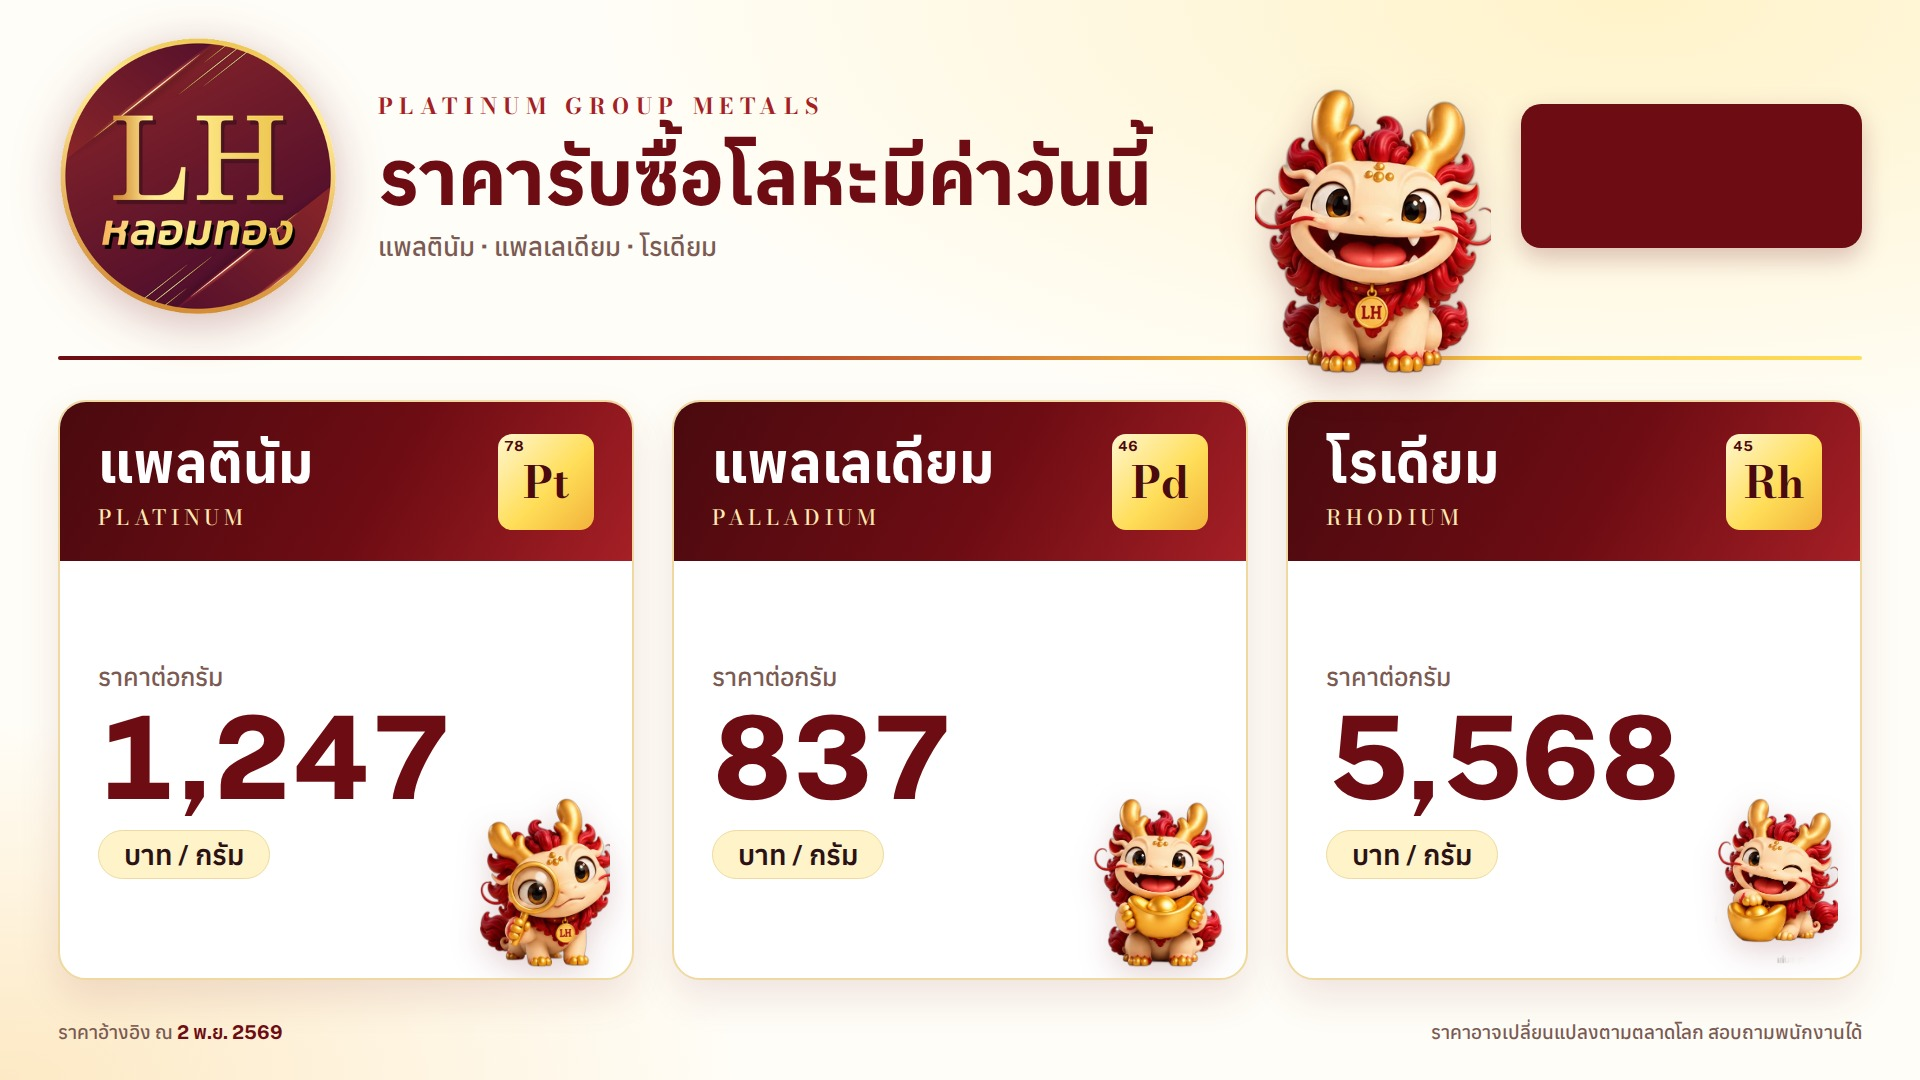
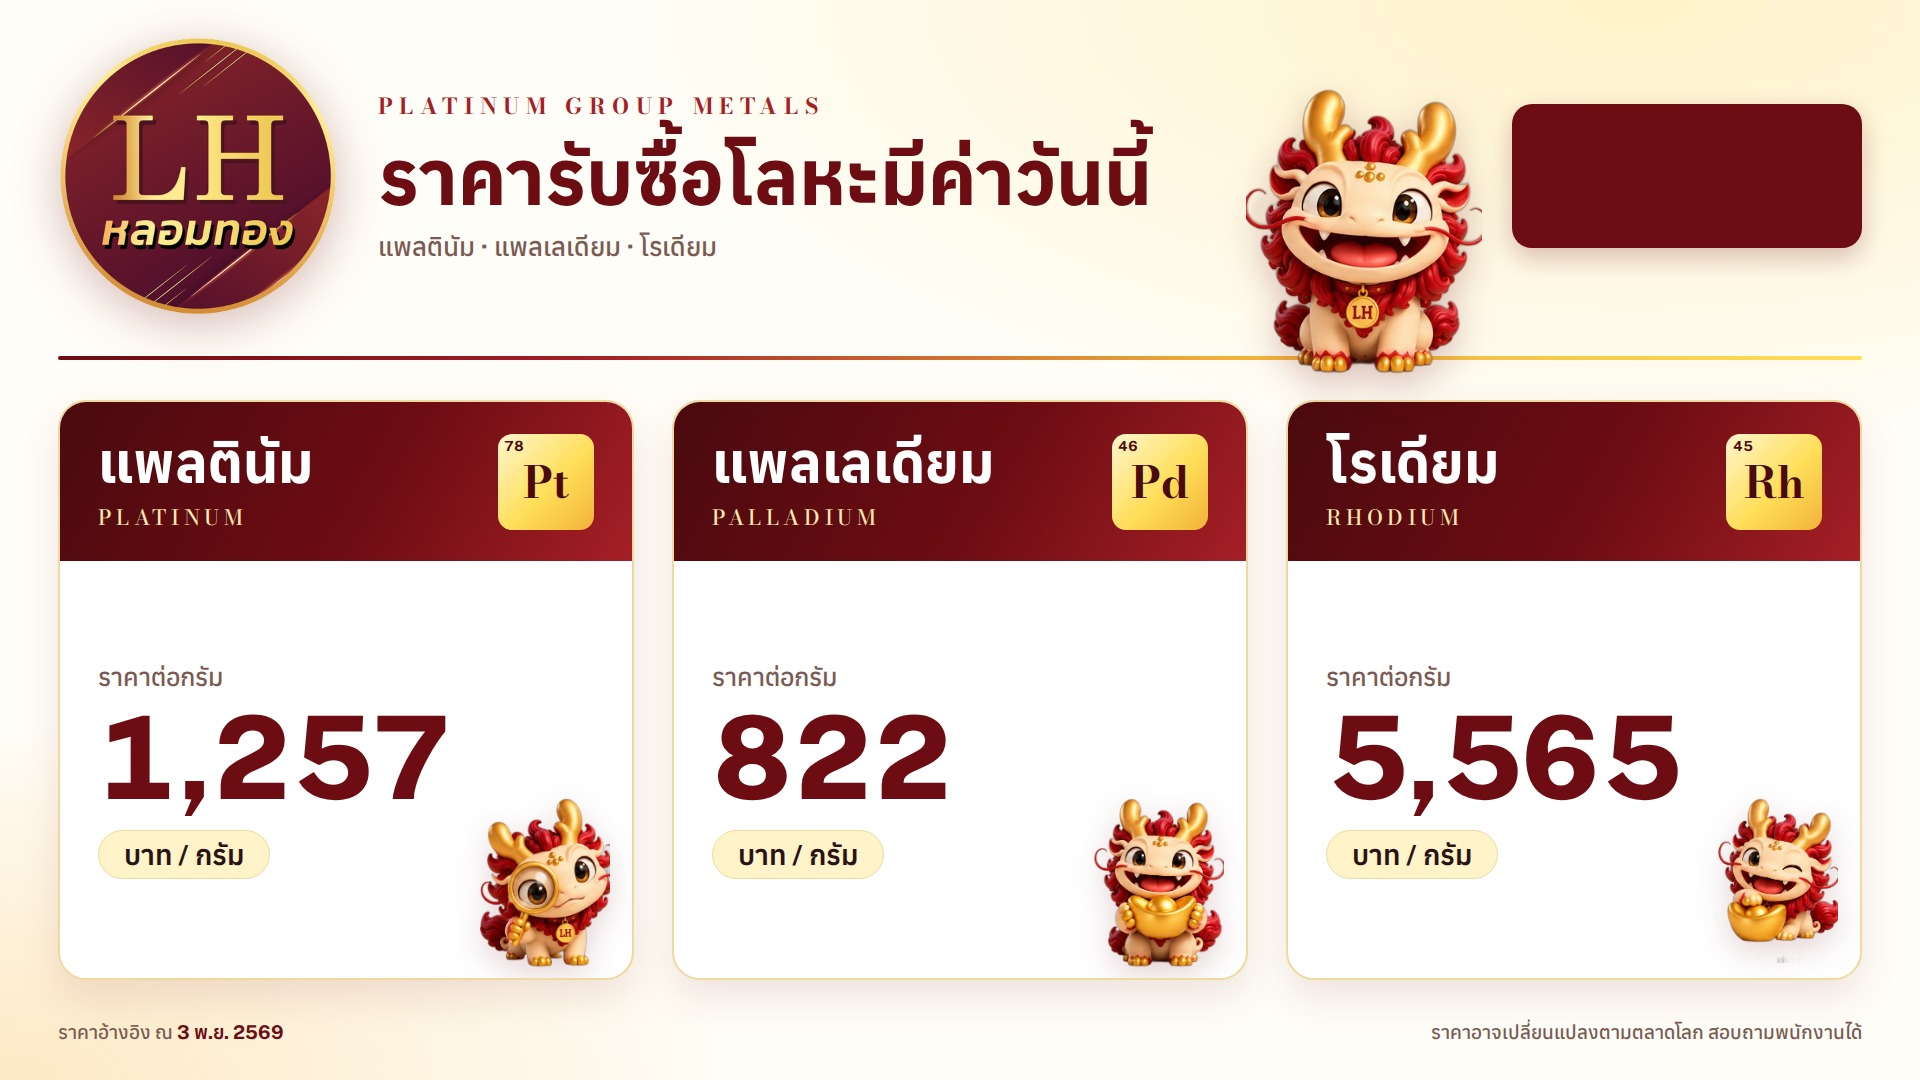
Update prices 2026-11-03

diff --git a/board.html b/board.html
@@ -219,14 +219,14 @@ html{-webkit-text-size-adjust:100%;text-size-adjust:100%}
      ราคาแต่ละเกรด = ราคาเงินหลังหัก × เปอร์เซ็นต์ (99.99% ใช้ราคาเต็ม)
    showSilver = เปิด/ปิดหน้าราคาเงิน, rotateSeconds = เปลี่ยนหน้าทุกกี่วินาที */
 const CONFIG = {
-  asOf: "2 พ.ย. 2569",
-  fx: 33.76,
+  asOf: "3 พ.ย. 2569",
+  fx: 33.74,
   discount: 0.20,
   rotateSeconds: 15,
   showSilver: true,
   metals: [
-    { th:"แพลตินัม",  en:"Platinum",  sym:"Pt", z:78, usdPerGram:46.1684 },
-    { th:"แพลเลเดียม", en:"Palladium", sym:"Pd", z:46, usdPerGram:30.9933 },
+    { th:"แพลตินัม",  en:"Platinum",  sym:"Pt", z:78, usdPerGram:46.5864 },
+    { th:"แพลเลเดียม", en:"Palladium", sym:"Pd", z:46, usdPerGram:30.4467 },
     { th:"โรเดียม",    en:"Rhodium",   sym:"Rh", z:45, usdPerGram:274.89, discount:0.40 }
   ],
   silver: { pricePerKg: 55000, grades: [95, 92.5, 90, 70, 50, 30] }
